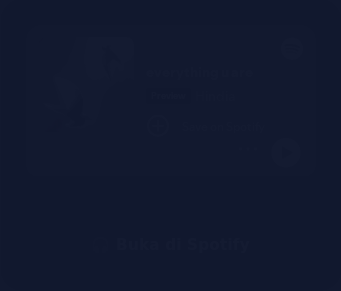
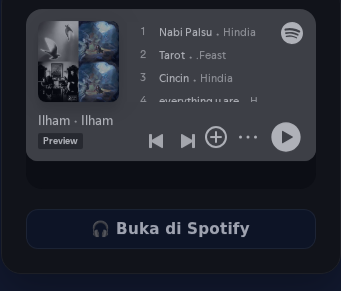
Update Spotify widget to display a specific playlist
Updated index.html to embed the specified Spotify playlist instead of a single track.
Modified scripts/app.js to prevent the dynamic track loader from overwriting the playlist embed.
Updated verification screenshot.

diff --git a/index.html b/index.html
@@ -170,14 +170,14 @@
               <div class="spotify-embed">
                 <iframe
                   title="Spotify favorit terbaru"
-                  src="https://open.spotify.com/embed/track/5WOSNVChcadlsCRiqXE45K?utm_source=generator"
+                  src="https://open.spotify.com/embed/playlist/5hL4J3fRXFqTmy7HKlisxk?utm_source=generator"
                   allow="autoplay; clipboard-write; encrypted-media; fullscreen; picture-in-picture"
                   loading="lazy"
                 ></iframe>
               </div>
               <a
                 class="btn spotify-button"
-                href="https://open.spotify.com/track/5WOSNVChcadlsCRiqXE45K"
+                href="https://open.spotify.com/playlist/5hL4J3fRXFqTmy7HKlisxk?si=aTaPehZPR2615DHBCLA5dg"
                 target="_blank"
                 rel="noopener"
               >

diff --git a/scripts/app.js b/scripts/app.js
@@ -332,7 +332,8 @@ async function loadPlaylist() {
     if (trackIdMatch) {
       const trackId = trackIdMatch[1];
       const iframe = document.querySelector('.spotify-embed iframe');
-      if (iframe) {
+      // Only update if not already a playlist embed
+      if (iframe && !iframe.src.includes('/embed/playlist/')) {
         iframe.src = `https://open.spotify.com/embed/track/${trackId}?utm_source=generator`;
         const saveLink = document.querySelector('.spotify-button');
         if (saveLink) saveLink.href = featuredUrl;
